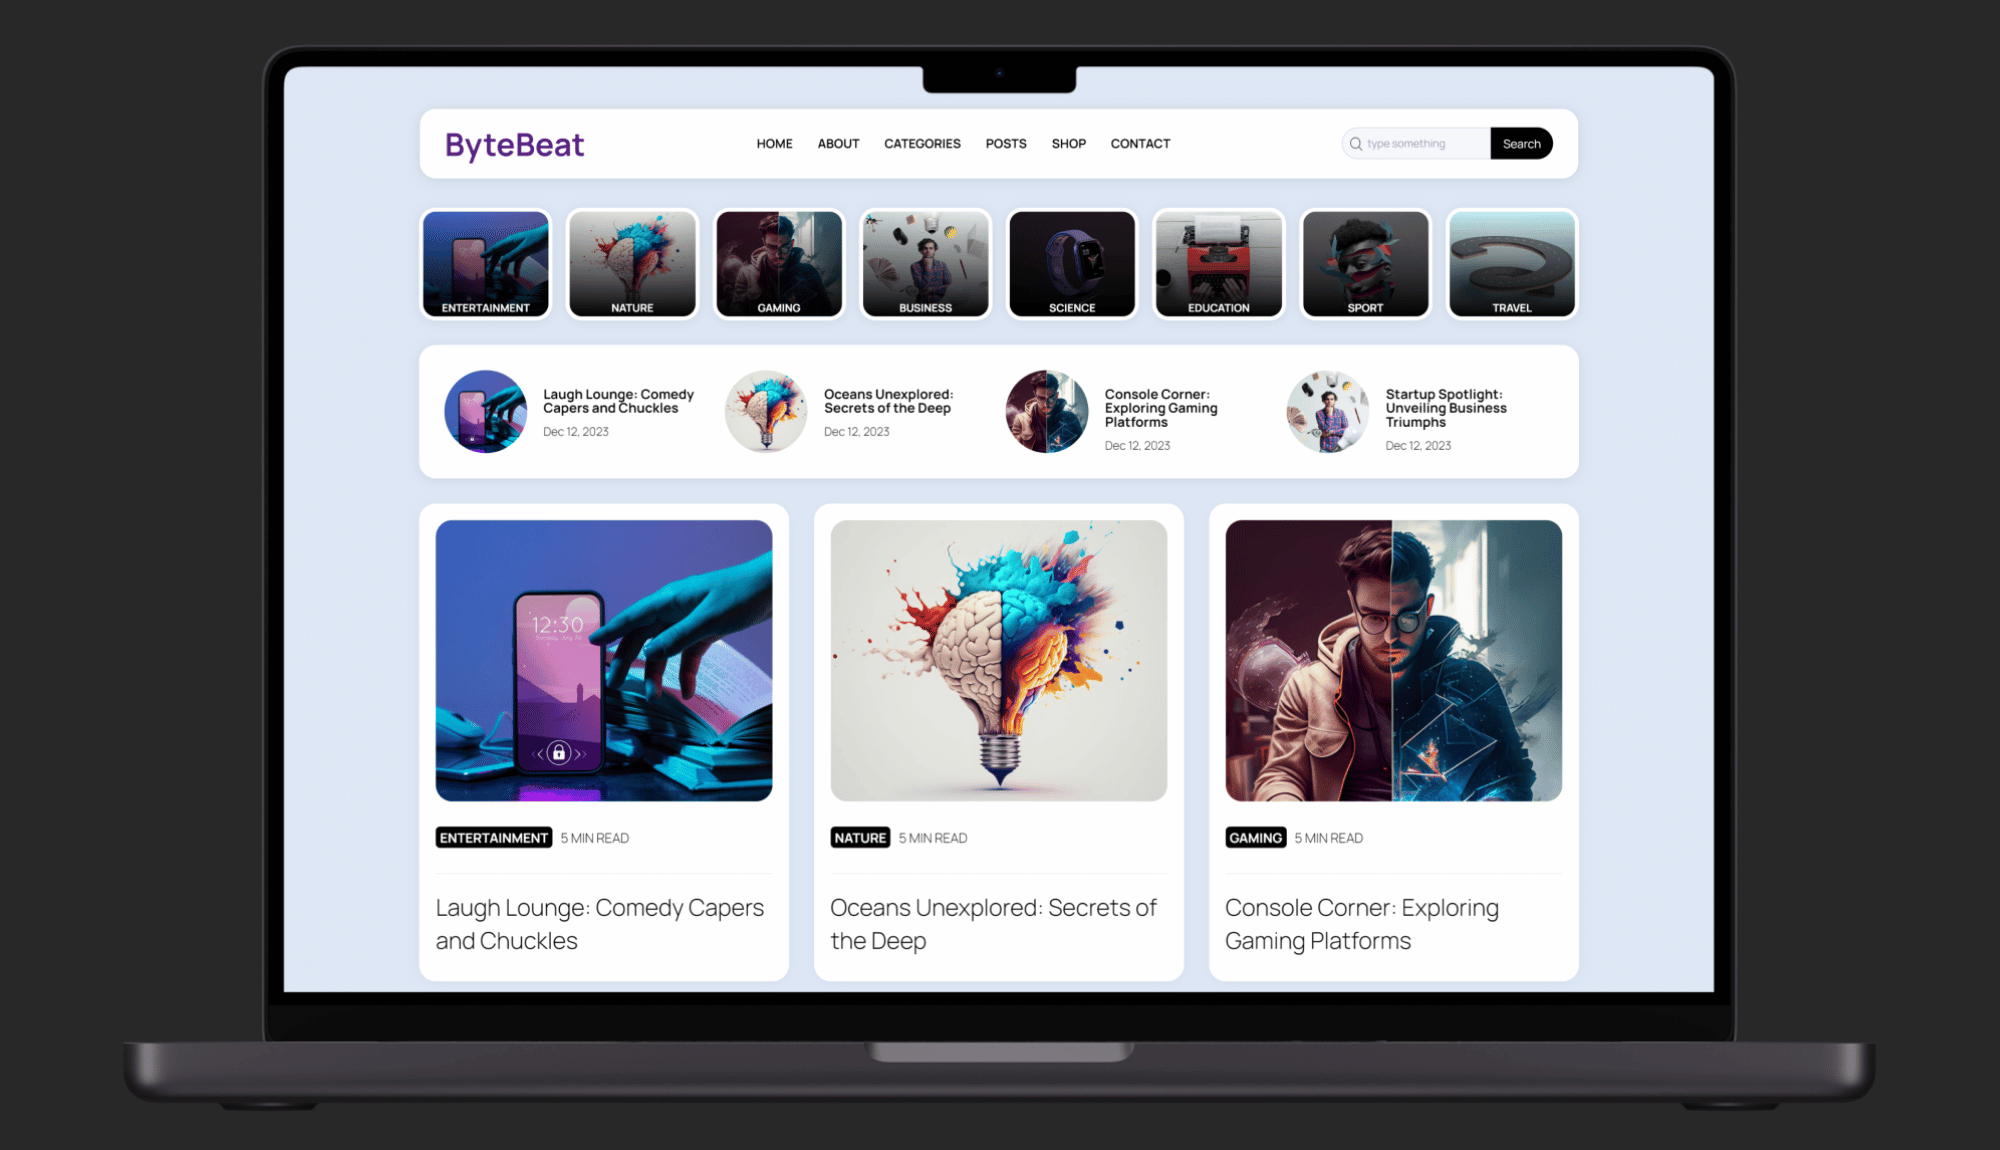
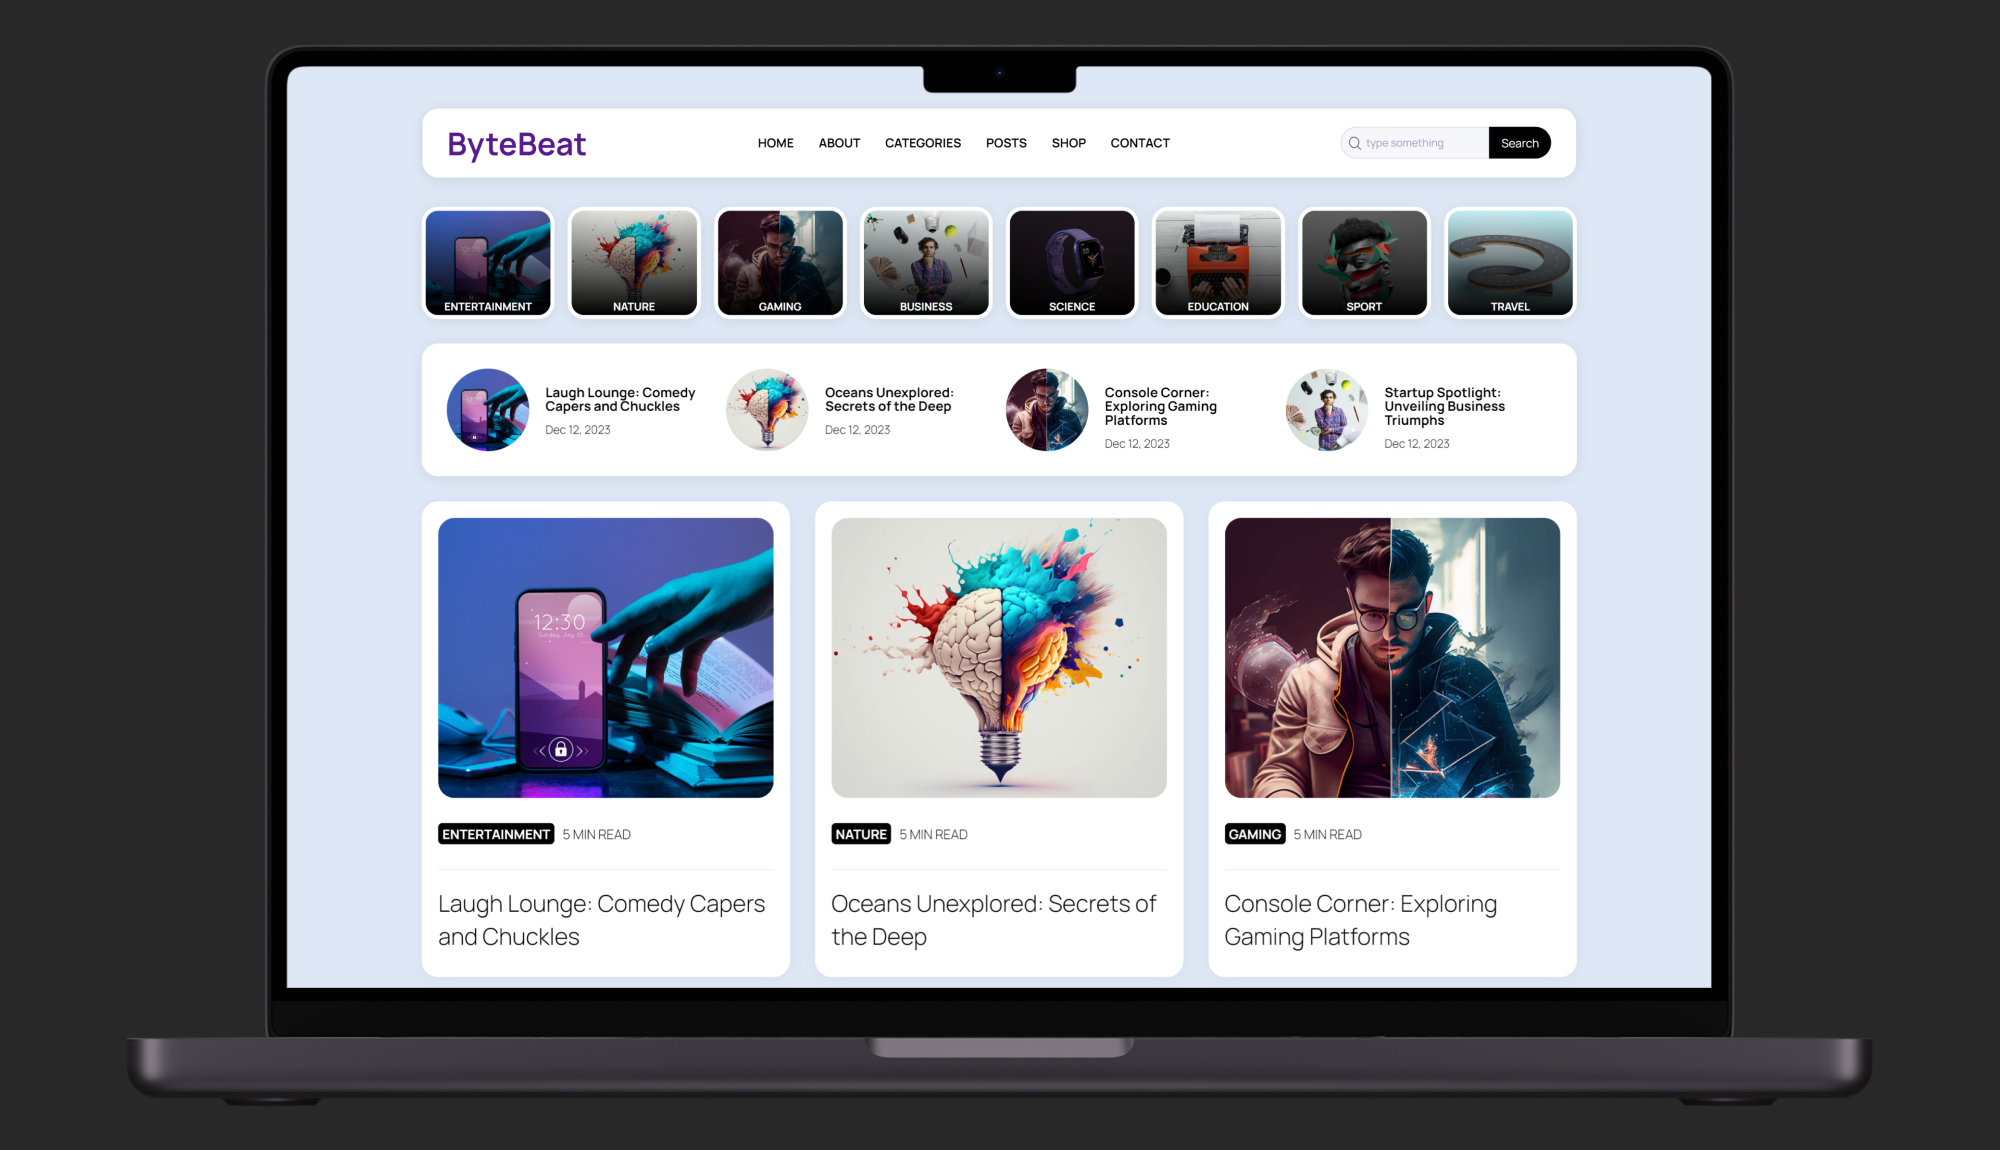
Images changed

diff --git a/public/css/style.css b/public/css/style.css
@@ -63,15 +63,17 @@ background: linear-gradient(45deg,#4fcf70,#fad648,#a767e5,#12bcfe,#44ce7b);
   position: absolute;
   top: -1px;
   left:-1px;
-  background-size: 400%;
-  z-index: -1; 
+  background-size: 400% 400%;
+    z-index: -1; 
+    
   width: calc(100% + 2px);
   height: calc(100% + 2px);
-  animation: glowing 3s linear infinite;
+  animation: glowing 10s linear infinite;
   opacity: 1;
-  transition: opacity .3s ease;
+  transition:  opacity .3s ease-in-out;
   border-radius: 10px;
 }
+
 .Select-category:before {
 content: '';
 background: linear-gradient(45deg,#4fcf70,#fad648,#a767e5,#12bcfe,#44ce7b);  position: absolute;
@@ -109,11 +111,15 @@ opacity: 0;
 }
 
 @keyframes glowing {
-  0% { background-position: 0% 0%; }
-  100% { background-position: 100% 100%; }
- 
- 
-
+  0% {
+    background-position: 100% 0%;
+  }
+  50% {
+    background-position: 0% 100%;
+  }
+  100% {
+    background-position: 100% 0%;
+  }
 }
 @keyframes glowing-before {
 
